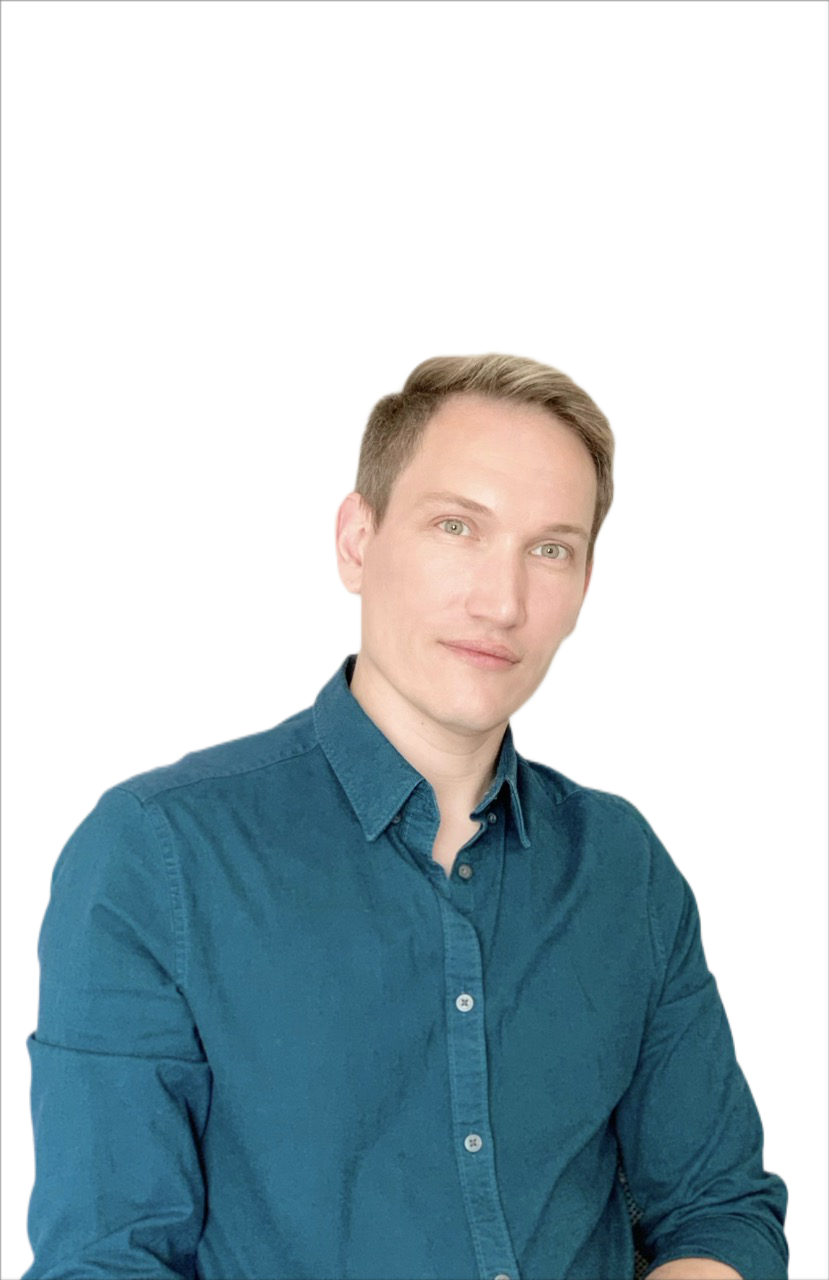
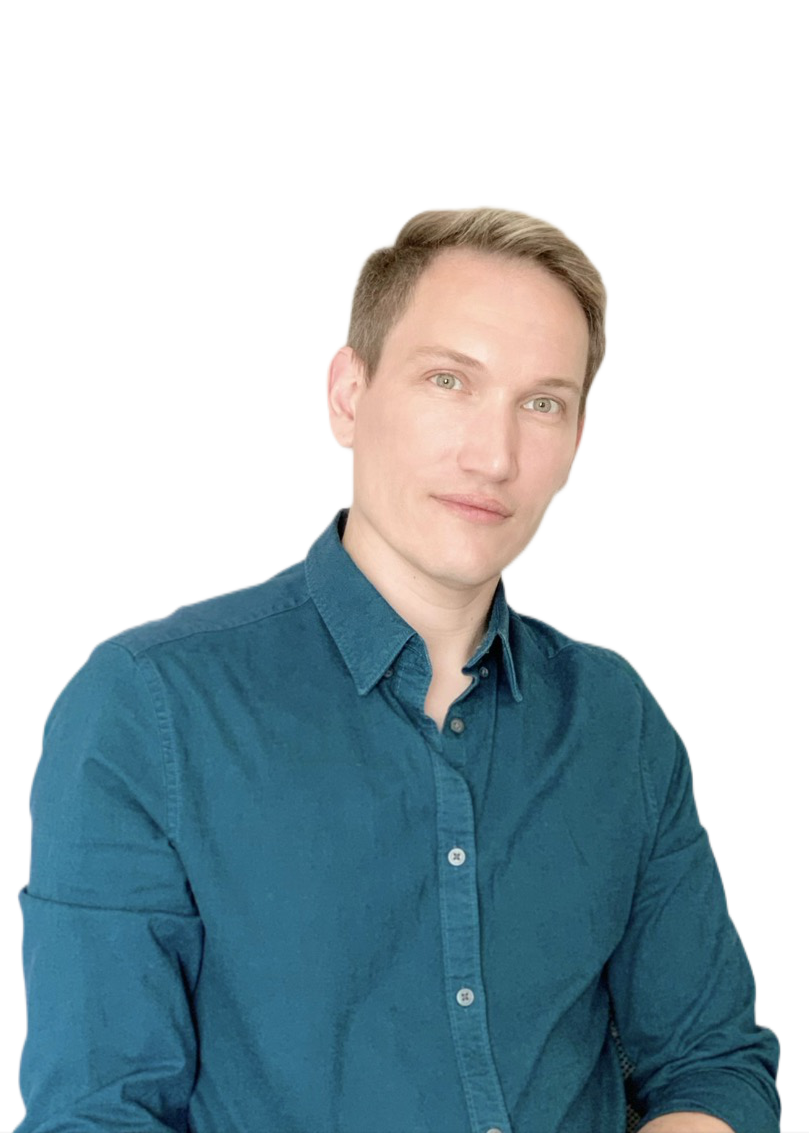
scroll effect easer

diff --git a/app/sections/Hero.js b/app/sections/Hero.js
@@ -16,15 +16,16 @@ export default function Hero() {
     target: heroRef,
     offset: ["start start", "end start"],
   });
-  const y = useTransform(scrollYProgress, [0, 1], ["0%", "50%"]);
-  const opacity = useTransform(scrollYProgress, [0, 0.8], [1, 0]);
-  const scale = useTransform(scrollYProgress, [0, 1], ["100%", "80%"]);
+  const y = useTransform(scrollYProgress, [0, 1], ["0%", "100%"]);
+  // const opacity = useTransform(scrollYProgress, [0, 0.8], [1, 0]);
+  // const scale = useTransform(scrollYProgress, [0, 1], ["100%", "80%"]);
 
   return (
     <section id="hero" ref={heroRef}>
       <motion.div
         className="absolute flex justify-start h-screen w-full bg-[#CDCED2] -z-10"
-        style={{ y, opacity, scale }}
+        style={{ y }}
+        // style={{ y, opacity, scale }}
       >
         <Image
           className="absolute object-left-bottom bottom-0 left-0 h-auto md:h-full w-auto"
@@ -63,7 +64,7 @@ export default function Hero() {
               <SocialLinks />
             </div>
 
-            <div className="flex justify-center gap-4 items-end md:justify-end mt-8 md:mt-16 text-sm">
+            <div className="flex justify-center gap-4 items-end md:justify-end text-sm mt-8 md:mt-16">
               <span>
                 Located <br /> in the <br /> Netherlands
               </span>

diff --git a/app/sections/About.js b/app/sections/About.js
@@ -69,7 +69,7 @@ export default function About() {
 
   return (
     <section id="about">
-      <div className="flex items-center md:justify-between md:h-screen flex-col md:flex-row px-7 md:px-16 lg:px-28 xl:px-40 py-14 md:py-24 ">
+      <div className="flex items-center md:justify-between md:h-screen flex-col md:flex-row px-7 md:px-16 lg:px-28 xl:px-40 py-14 md:py-24 bg-white dark:bg-[#121212]">
         <div className="top-0 md:w-2/3 max-w-prose flex-auto py-14 md:py-20">
           <h3 className="text-2xl md:text-3xl text-text-head py-3 drop-shadow-md">
             About & Skills
